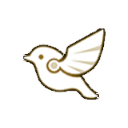
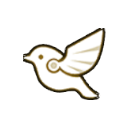
Map: fix Rafter Kites beak; Auto Casket, Squarefield Sparring, Super Cloud Ride
The capture extraction's edge ramp (alpha from colour distance 12..72)
dropped thin anti-aliased tips such as the Rafter Kites beak; it now
ramps over 5..27, and the bird's aspect ratio matches the original
within 0.7%. Three new kinds from the same capture go in a temporary
top-level Other category (listed last) until their place is decided.

Claude-Session: https://claude.ai/code/session_01BXHoDCH2eSwqpAec7PE9sw

diff --git a/app/src/data/mapIconCatalog.js b/app/src/data/mapIconCatalog.js
@@ -128,6 +128,40 @@ export const MAP_ICON_CATALOG = [
     imageUrl: 'map-icons/Void-Storm-Zone.png',
     size: 128,
   },
+  // Not filed yet: the right category for these is still to be decided.
+  {
+    id: 'auto-casket',
+    name: 'Auto Casket',
+    category: 'Other',
+    subcategory: 'Auto Casket',
+    // Cut from a native in-game capture (Exploration Progress screen,
+    // assets/map-icon-sources/exploration-progress-capture-6.png): outer
+    // background removed, colours untouched; 65% of the canvas height.
+    imageUrl: 'map-icons/Auto-Casket.png',
+    size: 128,
+  },
+  {
+    id: 'squarefield-sparring',
+    name: 'Squarefield Sparring',
+    category: 'Other',
+    subcategory: 'Squarefield Sparring',
+    // Cut from a native in-game capture (Exploration Progress screen,
+    // assets/map-icon-sources/exploration-progress-capture-6.png): outer
+    // background removed, colours untouched; 65% of the canvas height.
+    imageUrl: 'map-icons/Squarefield-Sparring.png',
+    size: 128,
+  },
+  {
+    id: 'super-cloud-ride-challenge',
+    name: 'Super Cloud Ride Challenge',
+    category: 'Other',
+    subcategory: 'Super Cloud Ride Challenge',
+    // Cut from a native in-game capture (Exploration Progress screen,
+    // assets/map-icon-sources/exploration-progress-capture-6.png): outer
+    // background removed, colours untouched; 65% of the canvas height.
+    imageUrl: 'map-icons/Super-Cloud-Ride-Challenge.png',
+    size: 128,
+  },
   {
     id: 'blobfly',
     name: 'Blobfly',

diff --git a/app/src/features/map/IconFiltersPopover.jsx b/app/src/features/map/IconFiltersPopover.jsx
@@ -29,7 +29,7 @@ function compareSubcategories(a, b) {
 // Explicit priority for known top-level categories (Zone before Resonance,
 // Enemy under Collectible — direct user requests); anything else falls back
 // to alphabetical order after these.
-const CATEGORY_ORDER = ['Zone', 'Resonance', 'Collectible', 'Point of Interest', 'Enemy'];
+const CATEGORY_ORDER = ['Zone', 'Resonance', 'Collectible', 'Point of Interest', 'Enemy', 'Other'];
 function compareCategories(a, b) {
   const ia = CATEGORY_ORDER.indexOf(a);
   const ib = CATEGORY_ORDER.indexOf(b);

diff --git a/app/src/features/map/IconKindPicker.jsx b/app/src/features/map/IconKindPicker.jsx
@@ -17,7 +17,7 @@ import { getIconImageUrl } from './iconImageCache.js';
 const FAVORITES_KEY = 'ww-icon-picker-favorites';
 const RECENT_KEY = 'ww-icon-picker-recent';
 const RECENT_MAX = 12;
-const CATEGORY_ORDER = ['Resonance', 'Collectible', 'Point of Interest', 'Enemy'];
+const CATEGORY_ORDER = ['Resonance', 'Collectible', 'Point of Interest', 'Enemy', 'Other'];
 
 const readList = (key) => {
   try { const v = JSON.parse(localStorage.getItem(key) || '[]'); return Array.isArray(v) ? v : []; } catch { return []; }
